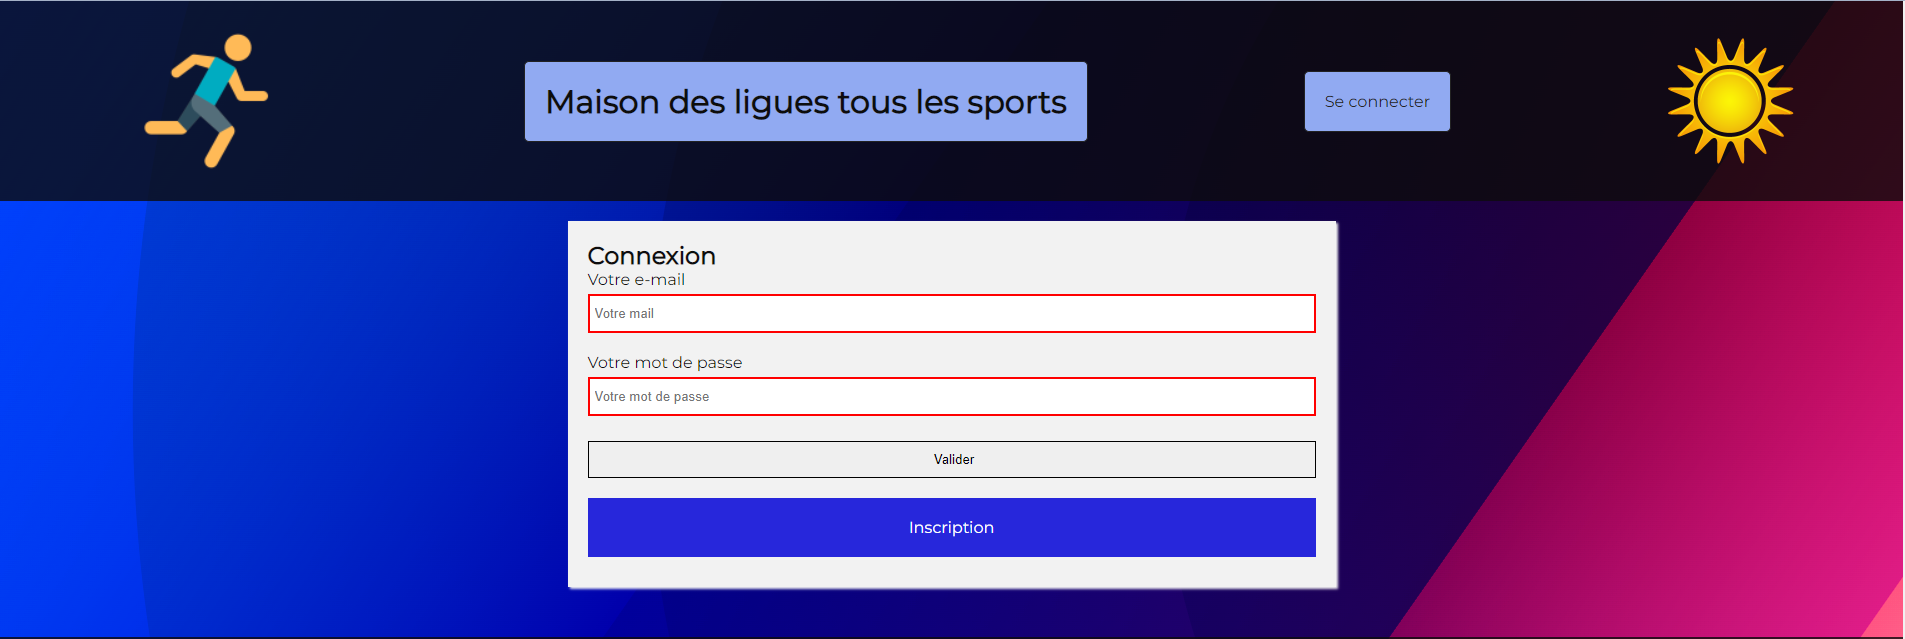
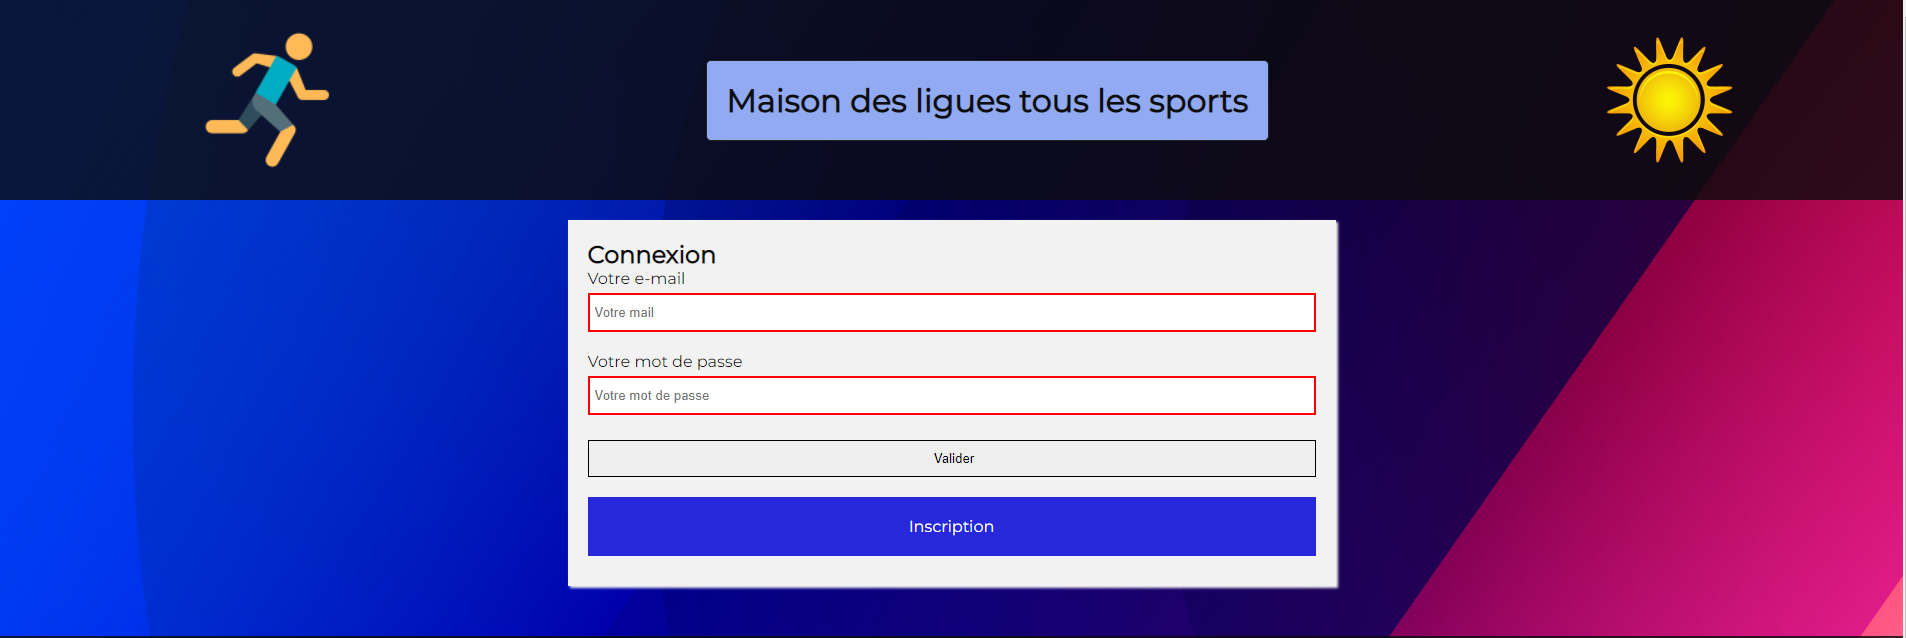
readme_2

diff --git a/PPE_PK/page_login.php b/PPE_PK/page_login.php
@@ -20,7 +20,7 @@
     <div class="loader" id="loader" role="region" aria-label="chargement">
         <img src="asset/spinner-icon-gif-29.gif" alt="spinner">
     </div>
-    <?php require_once './header_footer/header_page_nm.php'; ?>
+    <?php require_once './header_footer/header_page_m.php'; ?>
     <main>
 
 
